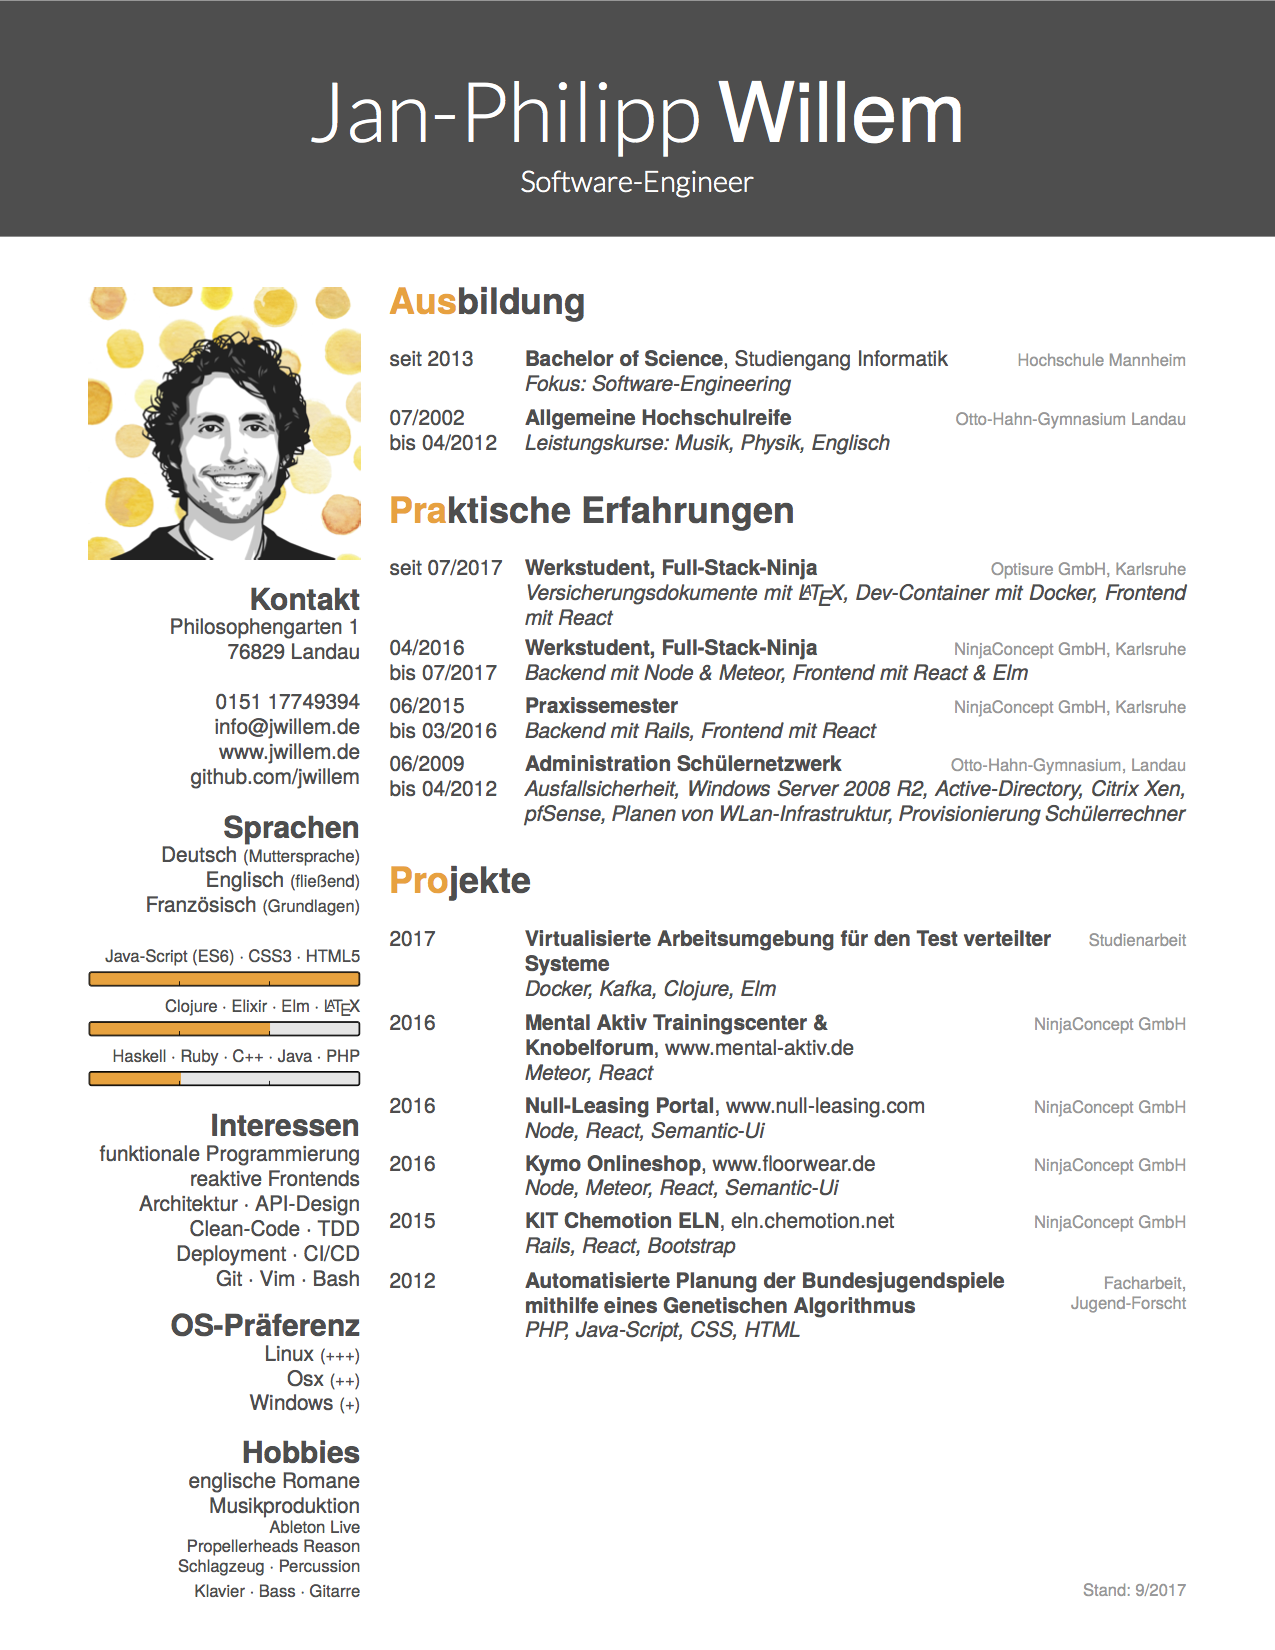
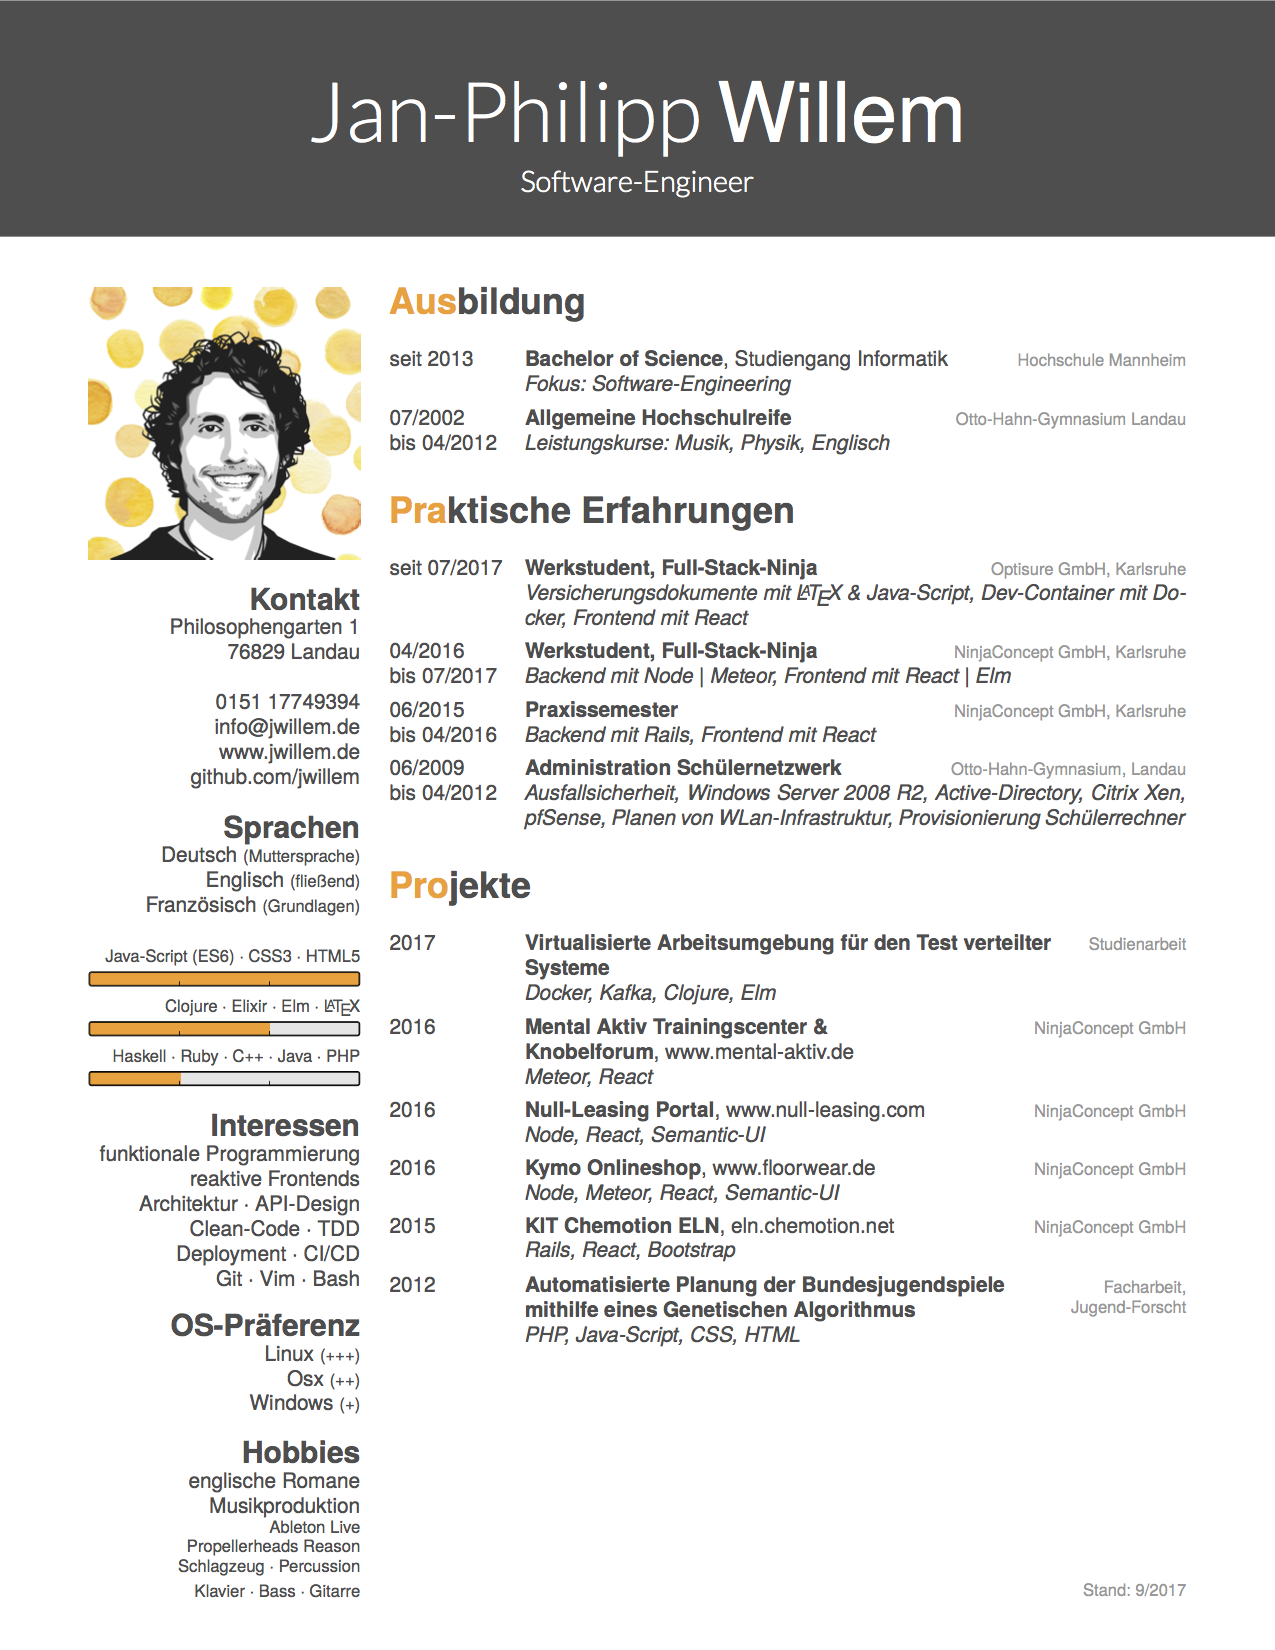
minor improvements

diff --git a/tex/cv.tex b/tex/cv.tex
@@ -82,14 +82,14 @@
     {seit 07/2017}
     {Werkstudent, Full-Stack-Ninja}
     {Optisure GmbH, Karlsruhe}
-    {\emph{Versicherungsdokumente mit \LaTeX, Dev-Container mit Docker, Frontend mit React}}
+    {\emph{Versicherungsdokumente mit \LaTeX{} \& Java-Script, Dev-Container mit Docker, Frontend mit React}}
   \entry
     {\multirow{2}{2cm}{04/2016 \\ bis 07/2017}}
     {Werkstudent, Full-Stack-Ninja}
     {NinjaConcept GmbH, Karlsruhe}
-    {\emph{Backend mit Node \& Meteor, Frontend mit React \& Elm}}
+    {\emph{Backend mit Node | Meteor, Frontend mit React | Elm}}
   \entry
-    {\multirow{2}{2cm}{06/2015 \\ bis 03/2016}}
+    {\multirow{2}{2cm}{06/2015 \\ bis 04/2016}}
     {Praxissemester}
     {NinjaConcept GmbH, Karlsruhe}
     {\emph{Backend mit Rails, Frontend mit React}}
@@ -117,12 +117,12 @@
     {2016}
     {Null-Leasing Portal{\normalfont ,~www.null-leasing.com}}
     {NinjaConcept GmbH}
-    {\emph{Node, React, Semantic-Ui}}
+    {\emph{Node, React, Semantic-UI}}
   \entry
     {2016}
     {Kymo Onlineshop{\normalfont ,~www.floorwear.de}}
     {NinjaConcept GmbH}
-    {\emph{Node, Meteor, React, Semantic-Ui}}
+    {\emph{Node, Meteor, React, Semantic-UI}}
   \entry
     {2015}
     {KIT Chemotion ELN{\normalfont ,~eln.chemotion.net}}
